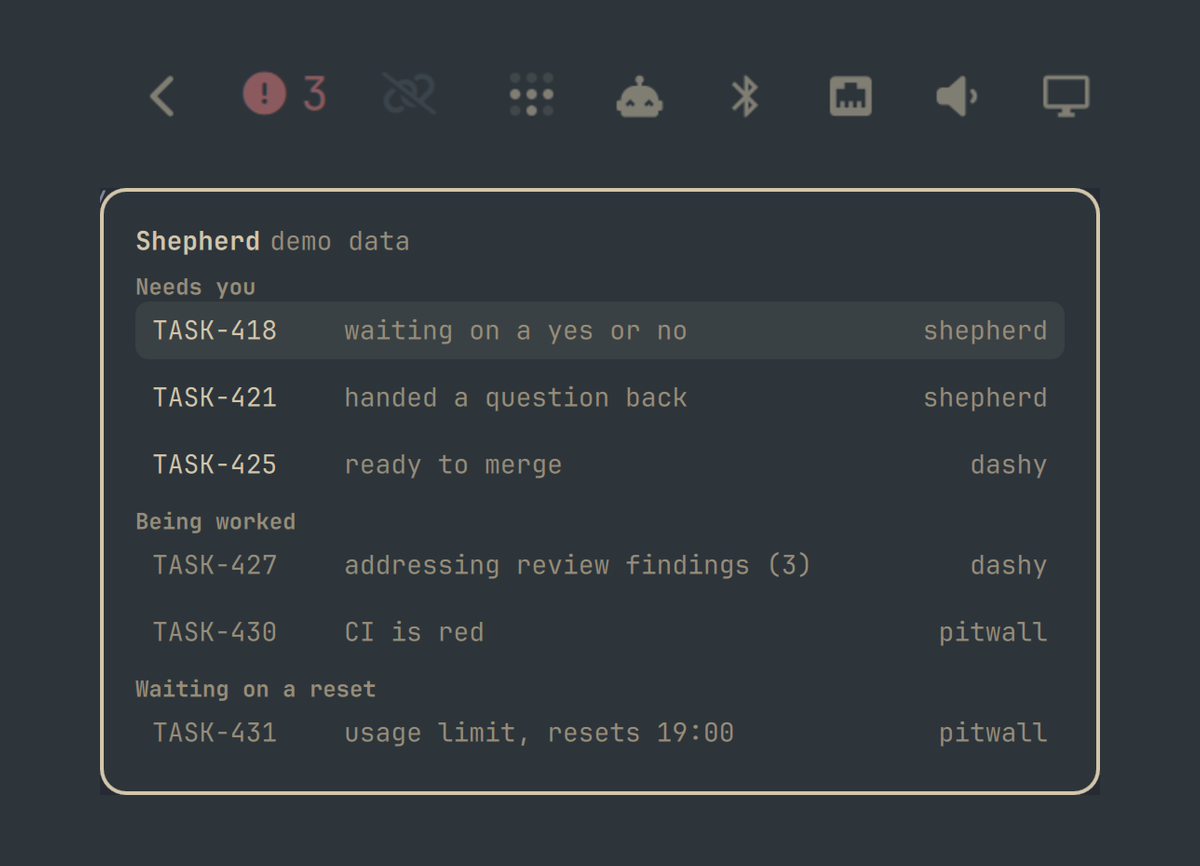
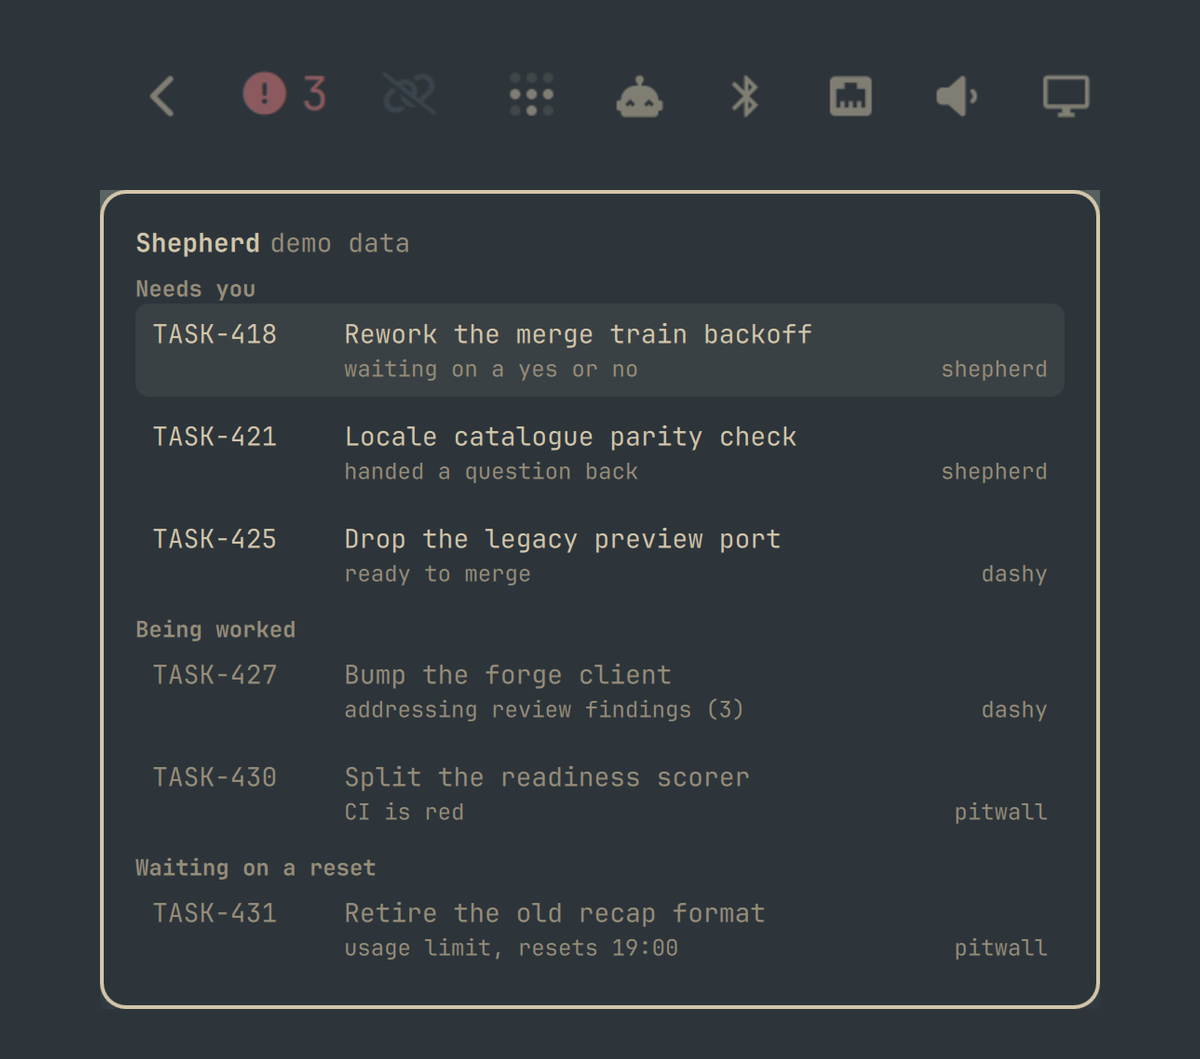
feat: show what each session is about, not just its number
A row carried TASK-2382 and "waiting for input" and nothing else, so the
card told you something needed you without telling you what — which meant
opening Shepherd to find out whether the row was the one you cared about.
That was always the intent; the name had only ever been wired up as a
fallback for a session with no designation.

The row is two lines now: designation and name, then the hold phrase with
the age and repo. Three columns of text on one line at this width elide all
three. The name is an issue title, so it is stripped and bounded on the way
in, like every other string Shepherd relays.

Claude-Session: https://claude.ai/code/session_018GFGVDkR2vLZCZPn2y1rpK

diff --git a/Card.qml b/Card.qml
@@ -318,76 +318,97 @@ Item {
 
                             Rectangle {
                                 width: parent.width
-                                height: rowLine.implicitHeight + Style.space(10)
+                                height: rowLine.implicitHeight + Style.space(12)
                                 radius: Style.space(6)
                                 color: root.selectedIndex === parent.index ? Color.menu.selectedBackground : "transparent"
 
-                                Item {
+                                Column {
                                     id: rowLine
                                     anchors.left: parent.left
                                     anchors.right: parent.right
                                     anchors.verticalCenter: parent.verticalCenter
                                     anchors.leftMargin: Style.space(8)
                                     anchors.rightMargin: Style.space(8)
-                                    implicitHeight: label.implicitHeight
+                                    spacing: Style.spacing.hairline
 
-                                    // Anchored into two groups rather than laid
-                                    // out in a Row: the labels have to line up
-                                    // down the card so the eye can run past them
-                                    // to the phrases, and the repo has to sit on
-                                    // the right edge where it stays out of the
-                                    // way until it is wanted. A Row gives
-                                    // neither — it packs everything left at its
-                                    // natural width, so each line starts its
-                                    // phrase somewhere new.
-                                    Text {
-                                        id: label
-                                        anchors.left: parent.left
-                                        anchors.verticalCenter: parent.verticalCenter
-                                        width: Style.space(78)
-                                        text: modelData.label
-                                        color: modelData.tier === "needs-you" ? root.foreground : root.dim
-                                        font.family: root.fontFamily
-                                        font.pixelSize: Style.font.body
-                                        elide: Text.ElideRight
-                                        textFormat: Text.PlainText
+                                    // Two lines, because three columns of text
+                                    // on one line at this width means every one
+                                    // of them elides. The first says which
+                                    // session and what it is about; the second
+                                    // says what is wrong with it and where.
+                                    Item {
+                                        width: parent.width
+                                        implicitHeight: label.implicitHeight
+
+                                        Text {
+                                            id: label
+                                            anchors.left: parent.left
+                                            anchors.verticalCenter: parent.verticalCenter
+                                            width: Style.space(78)
+                                            text: modelData.label
+                                            color: modelData.tier === "needs-you" ? root.foreground : root.dim
+                                            font.family: root.fontFamily
+                                            font.pixelSize: Style.font.body
+                                            elide: Text.ElideRight
+                                            textFormat: Text.PlainText
+                                        }
+
+                                        Text {
+                                            anchors.left: label.right
+                                            anchors.leftMargin: Style.space(10)
+                                            anchors.right: parent.right
+                                            anchors.verticalCenter: parent.verticalCenter
+                                            visible: modelData.name !== ""
+                                            text: modelData.name
+                                            color: modelData.tier === "needs-you" ? root.foreground : root.dim
+                                            font.family: root.fontFamily
+                                            font.pixelSize: Style.font.body
+                                            elide: Text.ElideRight
+                                            textFormat: Text.PlainText
+                                        }
                                     }
 
-                                    Text {
-                                        id: repo
-                                        anchors.right: parent.right
-                                        anchors.verticalCenter: parent.verticalCenter
-                                        text: modelData.repo
-                                        color: root.dim
-                                        font.family: root.fontFamily
-                                        font.pixelSize: Style.font.body
-                                        textFormat: Text.PlainText
-                                    }
+                                    Item {
+                                        width: parent.width
+                                        implicitHeight: phrase.implicitHeight
 
-                                    Text {
-                                        id: age
-                                        anchors.right: repo.left
-                                        anchors.rightMargin: text === "" ? 0 : Style.space(10)
-                                        anchors.verticalCenter: parent.verticalCenter
-                                        text: root.ageOf(modelData)
-                                        color: root.dim
-                                        font.family: root.fontFamily
-                                        font.pixelSize: Style.font.body
-                                        textFormat: Text.PlainText
-                                    }
+                                        Text {
+                                            id: repo
+                                            anchors.right: parent.right
+                                            anchors.verticalCenter: parent.verticalCenter
+                                            text: modelData.repo
+                                            color: root.dim
+                                            font.family: root.fontFamily
+                                            font.pixelSize: Style.font.caption
+                                            textFormat: Text.PlainText
+                                        }
 
-                                    Text {
-                                        anchors.left: label.right
-                                        anchors.leftMargin: Style.space(10)
-                                        anchors.right: age.left
-                                        anchors.rightMargin: Style.space(10)
-                                        anchors.verticalCenter: parent.verticalCenter
-                                        text: modelData.phrase
-                                        color: root.dim
-                                        font.family: root.fontFamily
-                                        font.pixelSize: Style.font.body
-                                        elide: Text.ElideRight
-                                        textFormat: Text.PlainText
+                                        Text {
+                                            id: age
+                                            anchors.right: repo.left
+                                            anchors.rightMargin: text === "" ? 0 : Style.space(10)
+                                            anchors.verticalCenter: parent.verticalCenter
+                                            text: root.ageOf(modelData)
+                                            color: root.dim
+                                            font.family: root.fontFamily
+                                            font.pixelSize: Style.font.caption
+                                            textFormat: Text.PlainText
+                                        }
+
+                                        Text {
+                                            id: phrase
+                                            anchors.left: parent.left
+                                            anchors.leftMargin: Style.space(88)
+                                            anchors.right: age.left
+                                            anchors.rightMargin: Style.space(10)
+                                            anchors.verticalCenter: parent.verticalCenter
+                                            text: modelData.phrase
+                                            color: root.dim
+                                            font.family: root.fontFamily
+                                            font.pixelSize: Style.font.caption
+                                            elide: Text.ElideRight
+                                            textFormat: Text.PlainText
+                                        }
                                     }
                                 }
 

diff --git a/src/rows.js b/src/rows.js
@@ -22,6 +22,27 @@
 // has no module loader: the caller passes it in.
 
 /**
+ * Strip control characters and bound the length of text Shepherd relayed.
+ *
+ * A session name is an issue title, which is to say it is whatever somebody
+ * typed. src/holds.js has the same function for the same reason; QML's
+ * JavaScript engine has no module loader and neither file may import the
+ * other, so the duplication is the price of both loading as they are.
+ *
+ * @param {string} value
+ * @param {number} [maxLen]
+ */
+function clean(value, maxLen) {
+    var limit = typeof maxLen === "number" ? maxLen : 120;
+    if (typeof value !== "string") {
+        return "";
+    }
+    // eslint-disable-next-line no-control-regex
+    var stripped = value.replace(/[\u0000-\u001f\u007f]+/g, " ").trim();
+    return stripped.length > limit ? stripped.slice(0, limit - 1) + "…" : stripped;
+}
+
+/**
  * How long a hold has been in place, and whether that is a real measurement.
  *
  * Shepherd does not timestamp holds — HoldReason is a code and its parameters,
@@ -124,6 +145,11 @@ function makeRow(session, described, firstSeen, exact) {
     return {
         id: session.id,
         label: labelFor(session),
+        // The name as well as the label, not instead of it: the designation
+        // says which session, the name says what it is about, and a card
+        // carrying only the first makes you open Shepherd to find out whether
+        // a row is the one you care about.
+        name: nameOf(session),
         repo: repoNameOf(session.repoPath),
         tier: described.tier,
         code: described.code,
@@ -146,15 +172,31 @@ function makeRow(session, described, firstSeen, exact) {
  * @param {any} session
  */
 function labelFor(session) {
-    if (typeof session.desig === "string" && session.desig !== "") {
-        return session.desig;
+    var desig = clean(session.desig, 24);
+    if (desig !== "") {
+        return desig;
     }
-    if (typeof session.name === "string" && session.name !== "") {
-        return session.name;
+    var name = clean(session.name, 40);
+    if (name !== "") {
+        return name;
     }
     var repo = repoNameOf(session.repoPath);
     var short = String(session.id).slice(0, 6);
     return repo ? repo + " · " + short : short;
+}
+
+/**
+ * What the session is about.
+ *
+ * Empty when it would only repeat the label: a session with no designation is
+ * already labelled by its name, and printing it twice spends a line saying
+ * nothing.
+ *
+ * @param {any} session
+ */
+function nameOf(session) {
+    var name = clean(session.name, 120);
+    return name === labelFor(session) ? "" : name;
 }
 
 /** @param {string} repoPath */
@@ -257,6 +299,8 @@ if (typeof module !== "undefined") {
     module.exports = {
         build: build,
         labelFor: labelFor,
+        nameOf: nameOf,
+        clean: clean,
         repoNameOf: repoNameOf,
         compareRows: compareRows,
         shortAge: shortAge,

diff --git a/test/rows.test.js b/test/rows.test.js
@@ -265,6 +265,62 @@ describe("ordering", () => {
     });
 });
 
+describe("what a session is about", () => {
+    test("is carried alongside the designation, not instead of it", () => {
+        const out = buildAt(
+            { sessions: [session({})], holds: { s1: { code: "ci-red" } } },
+            emptySeen(),
+            T0,
+        );
+        expect(out.rows[0].label).toBe("TASK-1");
+        expect(out.rows[0].name).toBe("a session");
+    });
+
+    test("is empty when it would only repeat the label", () => {
+        // No designation, so the name is already the label. Printing it twice
+        // spends a line saying nothing.
+        const out = buildAt(
+            { sessions: [session({ desig: "" })], holds: { s1: { code: "ci-red" } } },
+            emptySeen(),
+            T0,
+        );
+        expect(out.rows[0].label).toBe("a session");
+        expect(out.rows[0].name).toBe("");
+    });
+
+    test("is stripped of control characters, being an issue title", () => {
+        const out = buildAt(
+            {
+                sessions: [session({ name: "drop the\u0000 legacy\u001b[31m column" })],
+                holds: { s1: { code: "ci-red" } },
+            },
+            emptySeen(),
+            T0,
+        );
+        expect(out.rows[0].name).toBe("drop the  legacy [31m column");
+        expect(out.rows[0].name).not.toContain("\u0000");
+    });
+
+    test("is bounded, so one long title cannot stretch the card", () => {
+        const out = buildAt(
+            { sessions: [session({ name: "x".repeat(400) })], holds: { s1: { code: "ci-red" } } },
+            emptySeen(),
+            T0,
+        );
+        expect(out.rows[0].name.length).toBe(120);
+        expect(out.rows[0].name.endsWith("\u2026")).toBe(true);
+    });
+
+    test("is empty when the session has none", () => {
+        const out = buildAt(
+            { sessions: [session({ name: "" })], holds: { s1: { code: "ci-red" } } },
+            emptySeen(),
+            T0,
+        );
+        expect(out.rows[0].name).toBe("");
+    });
+});
+
 describe("naming a row", () => {
     test("prefers the designation", () => {
         expect(labelFor(session({}))).toBe("TASK-1");

diff --git a/src/types.d.ts b/src/types.d.ts
@@ -72,6 +72,8 @@ export interface Seen {
 export interface Row {
     id: string;
     label: string;
+    /** What the session is about; empty when it would repeat the label. */
+    name: string;
     repo: string;
     tier: Tier;
     code: string;
